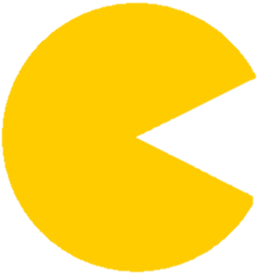
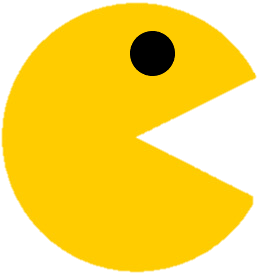
I started animation

Changed region(s): [[0.4923, 0.0857, 0.6769, 0.2857]]

diff --git a/Main.cpp b/Main.cpp
@@ -25,10 +25,10 @@ int main()
 	window.create(VideoMode(800, 800), "Maze");
 
 
-	ghosts[0].setGhost("blinky", 7, 8, "blinky.png", true);//setting Blinky above the ghost house and prepared to move at the beginning of the game
-	ghosts[1].setGhost("pinky", 9, 8, "pinky.png", true);//setting Pinky int the middle of the ghost house and prepared to move at the beginning of the game
-	ghosts[2].setGhost("inky", 9, 7, "inky.png", false);//setting Inky in the left of the ghost house and wouldn't start moving at the beginning of the game
-	ghosts[3].setGhost("clyde", 9, 9, "clyde.png", false);//setting Clyde in the left of the ghost house and wouldn't start moving at the beginning of the game
+	ghosts[0].setGhost("blinky", 7, 8, "blinky.png", "blinky2.png", "blinky3.png", true);//setting Blinky above the ghost house and prepared to move at the beginning of the game
+	ghosts[1].setGhost("pinky", 9, 8, "pinky.png", "pinky2.png", "pinky3.png", true);//setting Pinky int the middle of the ghost house and prepared to move at the beginning of the game
+	ghosts[2].setGhost("inky", 9, 7, "inky.png", "inky2.png", "inky3.png", false);//setting Inky in the left of the ghost house and wouldn't start moving at the beginning of the game
+	ghosts[3].setGhost("clyde", 9, 9, "clyde.png", "clyde2.png", "clyde3.png", false);//setting Clyde in the left of the ghost house and wouldn't start moving at the beginning of the game
 
 	liveTexture.loadFromFile("pacman.png");
 	lives.resize(3);
@@ -85,6 +85,8 @@ int main()
 					}
 					else if (e.key.code == Keyboard::Space)
 						gameOn = true;
+			for (int i = 0; i < 4; i++)
+				ghosts[i].updateAnimation();
 			window.clear();
 			myScreen.drawAll(window);
 			if (!playerChosen)
@@ -98,6 +100,7 @@ int main()
 
 		while (gameOn) {
 			gameOn = runLevel(myScreen, pacman, window, e, movement);
+
 			window.clear();
 			myScreen.drawAll(window);
 

diff --git a/Ghost.cpp b/Ghost.cpp
@@ -80,7 +80,7 @@ Ghost& Ghost::operator=(Ghost& g) {
 	return *this;
 }
 
-void Ghost::setGhost(string n, int initialR, int initialC, string imagename, bool can) {
+void Ghost::setGhost(string n, int initialR, int initialC, string imagename1, string imagename2, string imagename3, bool can) {
 	canMove = can;
 	name = n;
 	initialRow = initialR;
@@ -88,9 +88,17 @@ void Ghost::setGhost(string n, int initialR, int initialC, string imagename, boo
 	curRow = initialR;
 	curColumn = initialC;
 	updatePosition();
-	texture.loadFromFile(imagename);
+	texture.loadFromFile(imagename1);
 	shape.setTexture(&texture);
 	shape.setSize(Vector2f(32, 32));
+
+	snapshot.resize(4);
+	snapshot[0].loadFromFile(imagename1);
+	snapshot[1].loadFromFile(imagename2);
+	snapshot[2].loadFromFile(imagename3);
+	snapshot[3].loadFromFile(imagename2);
+
+	snapshotIndex = 0;
 }
 
 void Ghost::move(int node)
@@ -116,7 +124,13 @@ void Ghost::frightMode()
 	shape.setFillColor(Color::Blue);
 }
 
-
+void Ghost::updateAnimation() {
+	if (animationTimer.getElapsedTime().asMilliseconds() > 250) {
+		snapshotIndex = (snapshotIndex + 1) % 4;
+		texture = snapshot[snapshotIndex];
+		animationTimer.restart();
+	}
+}
 
 
 int Ghost::getDirection(int  x, int y)

diff --git a/Ghost.h b/Ghost.h
@@ -16,13 +16,17 @@ private:
 	bool canMove;
 	int gpath[row][col];
 	vector<int> graph[200];
+	vector<Texture> snapshot;
+	Clock animationTimer;
+	int snapshotIndex;// Index to point to the next snapshot
 	int cost[200];
 public:
 	Ghost();
 	Ghost(string n, int initialR, int initialC, string imagename);
 	Ghost& operator=(Ghost&);
-	void setGhost(string n, int initialR, int initialC, string imagename, bool can);
+	void setGhost(string n, int initialR, int initialC, string imagename1, string imagename2, string imagename3, bool can);
 	void move(int node);
+	void updateAnimation();
 	void frightMode();
 	int getDirection(int  x, int y);
 	void okMove(bool n);
